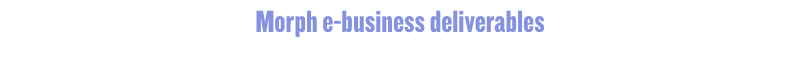
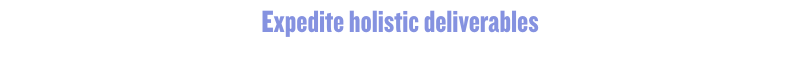
updated textasset slice

Changed region(s): [[0.3125, 0.1562, 0.6875, 0.5938]]

diff --git a/.slicemachine/assets/slices/TextAsset/index.stories.js b/.slicemachine/assets/slices/TextAsset/index.stories.js
@@ -5,11 +5,5 @@ export default {
 }
 
 
-export const _Default = () => <MyComponent slice={{"variation":"default","name":"Default theme","slice_type":"text_asset","items":[],"primary":{"theme":"dark","title":[{"type":"heading3","text":"Morph e-business deliverables","spans":[]}],"label":[{"type":"heading2","text":"Iterate cutting-edge e-commerce","spans":[]}],"text":[{"type":"paragraph","text":"Veniam ut quis ipsum magna anim qui culpa enim esse sunt ullamco et. Enim non do fugiat culpa proident amet.","spans":[]}],"image":{"dimensions":{"width":900,"height":500},"alt":"Placeholder image","copyright":null,"url":"https://images.unsplash.com/photo-1515378960530-7c0da6231fb1?w=900&h=500&fit=crop"}},"id":"_Default"}} />
+export const _Default = () => <MyComponent slice={{"variation":"default","name":"Default theme","slice_type":"text_asset","items":[],"primary":{"theme":"dark","label":[{"type":"heading2","text":"Mesh ubiquitous markets","spans":[]}],"title":[{"type":"heading3","text":"Expedite holistic deliverables","spans":[]}],"text":[{"type":"paragraph","text":"Elit laborum fugiat deserunt fugiat esse veniam eiusmod. Aliquip Lorem aliquip eiusmod quis occaecat laborum magna voluptate sit sint in. Ea mollit mollit nulla.","spans":[]}],"image":{"dimensions":{"width":900,"height":500},"alt":"Placeholder image","copyright":null,"url":"https://images.unsplash.com/photo-1504198070170-4ca53bb1c1fa?w=900&h=500&fit=crop"}},"id":"_Default"}} />
 _Default.storyName = 'Default theme'
-
-export const _TextAssetLight = () => <MyComponent slice={{"variation":"textAssetLight","name":"Light theme","slice_type":"text_asset","items":[],"primary":{"title":[{"type":"heading3","text":"Harness back-end convergence","spans":[]}],"label":[{"type":"heading2","text":"Leverage user-centric methodologies","spans":[]}],"text":[{"type":"paragraph","text":"Velit ut enim irure sunt sit veniam consequat dolor adipisicing aliqua magna laborum dolor nisi.","spans":[]}],"image":{"dimensions":{"width":900,"height":500},"alt":"Placeholder image","copyright":null,"url":"https://images.unsplash.com/photo-1587840171670-8b850147754e?w=900&h=500&fit=crop"}},"id":"_TextAssetLight"}} />
-_TextAssetLight.storyName = 'Light theme'
-
-export const _TextAssetBlue = () => <MyComponent slice={{"variation":"textAssetBlue","name":"Blue theme","slice_type":"text_asset","items":[],"primary":{"title":[{"type":"heading3","text":"Utilize efficient infrastructures","spans":[]}],"label":[{"type":"heading2","text":"Envisioneer user-centric paradigms","spans":[]}],"text":[{"type":"paragraph","text":"Sit aliquip sunt anim magna consequat do esse eiusmod ex magna qui officia.","spans":[]}],"image":{"dimensions":{"width":900,"height":500},"alt":"Placeholder image","copyright":null,"url":"https://images.unsplash.com/photo-1586952518485-11b180e92764?w=900&h=500&fit=crop"}},"id":"_TextAssetBlue"}} />
-_TextAssetBlue.storyName = 'Blue theme'

diff --git a/slices/TextAsset/index.js b/slices/TextAsset/index.js
@@ -1,31 +1,6 @@
-import React from 'react'
-import { PrismicRichText } from '@prismicio/react'
+import React from "react";
+import { PrismicRichText } from "@prismicio/react";
 
-const TextAsset = ({ slice }) => (
-  <section>
-    <span className="title">
-      {
-        slice.primary.title ?
-        <PrismicRichText field={slice.primary.title}/>
-        : <h2>Template slice, update me!</h2>
-      }
-    </span>
-    {
-      slice.primary.description ?
-      <PrismicRichText field={slice.primary.description}/>
-      : <p>start by editing this slice from inside Slice Machine!</p>
-    }
-    <style jsx>{`
-        section {
-          max-width: 600px;
-          margin: 4em auto;
-          text-align: center;
-        }
-        .title {
-          color: #8592e0;
-        }
-    `}</style>
-  </section>
-)
+const TextAsset = ({ slice }) => <section>text + asset</section>;
 
-export default TextAsset
+export default TextAsset;
